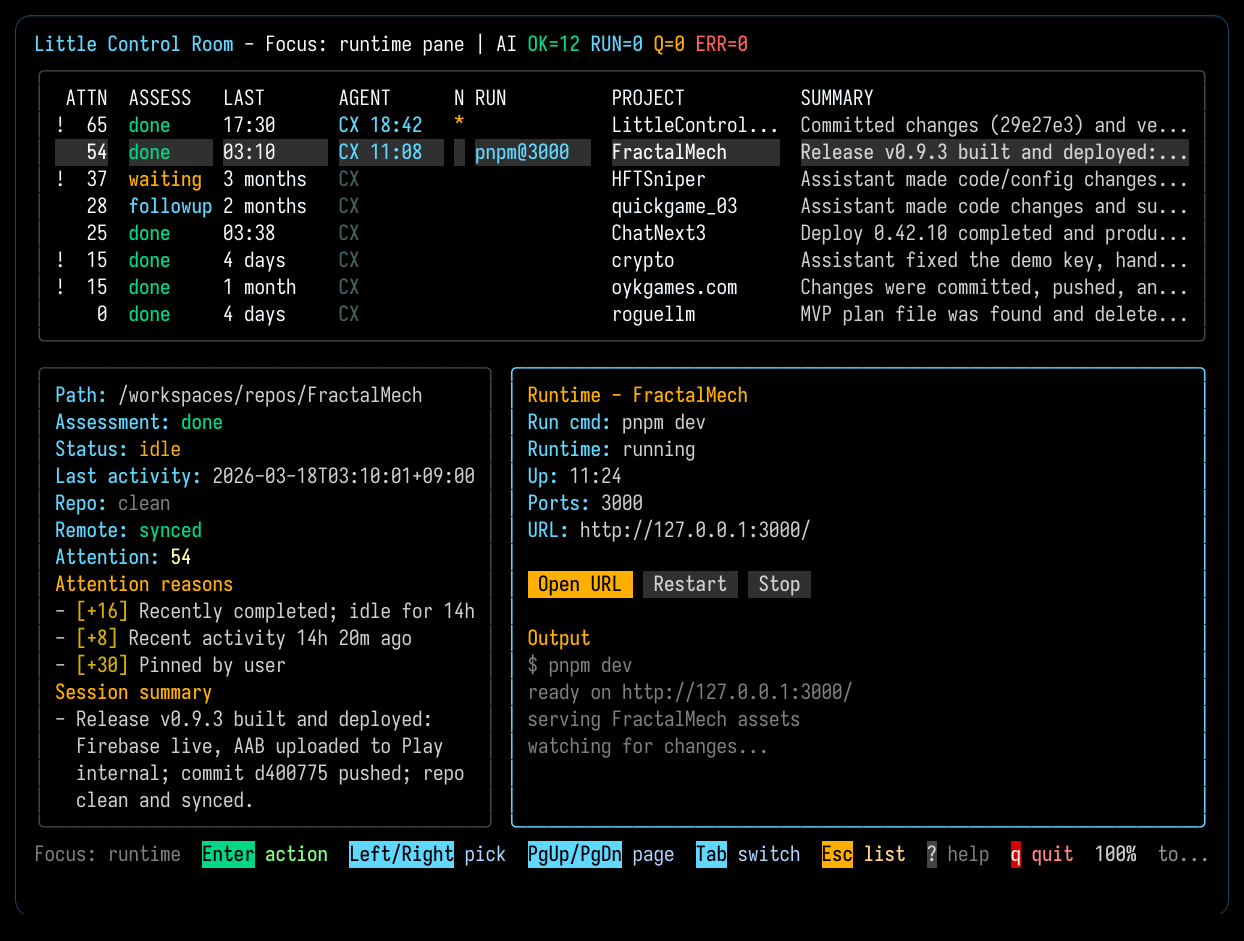
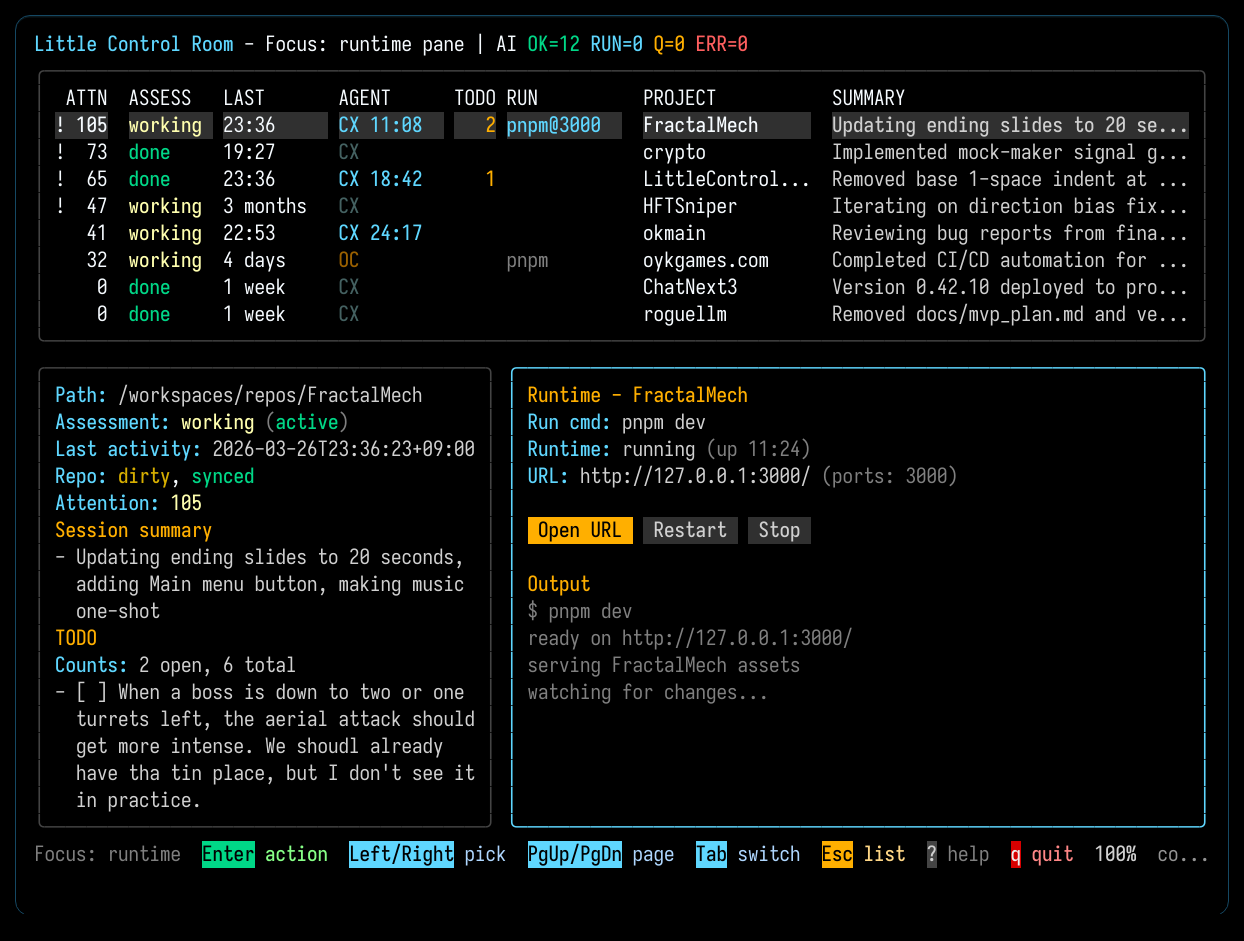
Update README and add TODO dialog screenshot

diff --git a/internal/tui/screenshots.go b/internal/tui/screenshots.go
@@ -153,6 +153,20 @@ func GenerateScreenshots(ctx context.Context, svc *service.Service, cfg config.S
 	commitModel.status = commitPreviewReadyStatus(commitModel.commitPreview.CanPush)
 	assets = append(assets, screenshotAsset("commit-preview", "Commit Preview", commitModel.View(), cfg))
 
+	todoProject := screenshotProjectWithMostTodos(ctx, svc, data, filtered, selectedProject)
+	todoModel, err := buildScreenshotDashboardModel(ctx, svc, data, filtered, todoProject.Path, cfg, now)
+	if err != nil {
+		return ScreenshotReport{}, err
+	}
+	todoModel.todoDialog = &todoDialogState{
+		ProjectPath: todoProject.Path,
+		ProjectName: noteProjectTitle(todoProject.Path, todoProject.Name),
+		Selected:    1,
+	}
+	todoModel.syncTodoDialogSelection()
+	todoModel.status = "TODO list open. Enter starts selected item; a adds, e edits, space toggles"
+	assets = append(assets, screenshotAsset("todo-dialog", "TODO Dialog", todoModel.View(), cfg))
+
 	report := ScreenshotReport{
 		Assets:                assets,
 		MatchedProjects:       screenshotProjectLabels(filtered),
@@ -245,6 +259,22 @@ func buildScreenshotDashboardModel(ctx context.Context, svc *service.Service, da
 	return m, nil
 }
 
+func screenshotProjectWithMostTodos(ctx context.Context, svc *service.Service, data screenshotDataSet, projects []model.ProjectSummary, fallback model.ProjectSummary) model.ProjectSummary {
+	best := fallback
+	bestCount := 0
+	for _, p := range projects {
+		detail, err := data.projectDetail(ctx, svc, p.Path, 1)
+		if err != nil {
+			continue
+		}
+		if len(detail.Todos) > bestCount {
+			bestCount = len(detail.Todos)
+			best = p
+		}
+	}
+	return best
+}
+
 func (d screenshotDataSet) projectDetail(ctx context.Context, svc *service.Service, path string, eventLimit int) (model.ProjectDetail, error) {
 	if d.details != nil {
 		detail, ok := d.details[path]
@@ -267,6 +297,9 @@ func sanitizeScreenshotProjectDetail(detail model.ProjectDetail) model.ProjectDe
 	for i := range detail.Artifacts {
 		detail.Artifacts[i].Path = sanitizeScreenshotPath(detail.Artifacts[i].Path)
 		detail.Artifacts[i].Note = sanitizeScreenshotText(detail.Artifacts[i].Note)
+	}
+	for i := range detail.Todos {
+		detail.Todos[i].ProjectPath = sanitizeScreenshotPath(detail.Todos[i].ProjectPath)
 	}
 	for i := range detail.RecentEvents {
 		detail.RecentEvents[i].ProjectPath = sanitizeScreenshotPath(detail.RecentEvents[i].ProjectPath)

diff --git a/internal/tui/screenshot_fixture.go b/internal/tui/screenshot_fixture.go
@@ -241,7 +241,7 @@ func screenshotDemoDataSet() screenshotDataSet {
 			LatestSessionSummary:             project.summary,
 		}
 		summaries = append(summaries, summary)
-		details[project.path] = model.ProjectDetail{
+		detail := model.ProjectDetail{
 			Summary: summary,
 			Reasons: append([]model.AttentionReason(nil), project.reasons...),
 			LatestSessionClassification: &model.SessionClassification{
@@ -254,6 +254,15 @@ func screenshotDemoDataSet() screenshotDataSet {
 				CompletedAt: project.last,
 			},
 		}
+		if project.name == screenshotDemoPrimaryProject {
+			detail.Todos = []model.TodoItem{
+				{ID: 1, ProjectPath: project.path, Text: "Add contextual screenshots to README for each workflow section", Done: true, Position: 0, CreatedAt: now.Add(-2 * time.Hour), UpdatedAt: now.Add(-30 * time.Minute), CompletedAt: now.Add(-30 * time.Minute)},
+				{ID: 2, ProjectPath: project.path, Text: "Wire /compact slash command to thread/compact/start endpoint", Done: false, Position: 1, CreatedAt: now.Add(-90 * time.Minute), UpdatedAt: now.Add(-90 * time.Minute)},
+				{ID: 3, ProjectPath: project.path, Text: "Implement /review command for embedded code review workflow", Done: false, Position: 2, CreatedAt: now.Add(-80 * time.Minute), UpdatedAt: now.Add(-80 * time.Minute)},
+				{ID: 4, ProjectPath: project.path, Text: "Add /fork to create a new thread from the current conversation point", Done: false, Position: 3, CreatedAt: now.Add(-70 * time.Minute), UpdatedAt: now.Add(-70 * time.Minute)},
+			}
+		}
+		details[project.path] = detail
 	}
 
 	return screenshotDataSet{

diff --git a/README.md b/README.md
@@ -6,27 +6,11 @@ LCR is meant to be a single window where you can coordinate most of your develop
 
 LCR shows you in real time the progress of each Codex, OpenCode, and Claude Code session, and lets you open, resume, or switch sessions, view diffs, generate commits with automatic messages, and manage per-project runtimes, all without leaving the dashboard.
 
-## Screenshots
-
-Click any screenshot to open the full-size PNG on GitHub.
-
 <p align="center">
   <a href="docs/screenshots/main-panel.png">
     <img src="docs/screenshots/main-panel.png" alt="Little Control Room main dashboard overview with live agent activity in the list" width="850">
   </a>
 </p>
-
-| Dashboard | Runtime Pane |
-| --- | --- |
-| [![Little Control Room dashboard list view](docs/screenshots/main-panel.png)](docs/screenshots/main-panel.png) | [![Little Control Room runtime pane focused on a running FractalMech session](docs/screenshots/main-panel-live-runtime.png)](docs/screenshots/main-panel-live-runtime.png) |
-
-| Embedded Session | Diff View |
-| --- | --- |
-| [![Little Control Room embedded Codex conversation](docs/screenshots/codex-embedded.png)](docs/screenshots/codex-embedded.png) | [![Little Control Room diff window](docs/screenshots/diff-view.png)](docs/screenshots/diff-view.png) |
-
-| Commit Preview | Image Diff |
-| --- | --- |
-| [![Little Control Room commit preview dialog](docs/screenshots/commit-preview.png)](docs/screenshots/commit-preview.png) | [![Little Control Room diff window showing before and after image previews](docs/screenshots/diff-view-image.png)](docs/screenshots/diff-view-image.png) |
 
 ## What It Does
 
@@ -34,7 +18,7 @@ Click any screenshot to open the full-size PNG on GitHub.
 - Shows which projects are active, idle, or worth revisiting
 - Lets you open, resume, or switch embedded Codex or OpenCode sessions directly from the dashboard
 - Detects Claude Code sessions running in a separate terminal and shows their transcript read-only
-- Keeps common actions close at hand: refresh, pin, snooze, multiline project notes with list badges, managed per-project run commands with runtime/port badges, diff, commit, and push
+- Keeps common actions close at hand: refresh, pin, snooze, project notes, per-project TODO lists, managed per-project run commands with runtime/port badges, diff, commit, and push
 
 ## What it doesn't do (yet)
 
@@ -125,12 +109,26 @@ Inside the embedded Codex or OpenCode pane:
 
 Most day-to-day use falls into a few buckets:
 
-- `🚀 Run and monitor`: Use `/run` or `/start` to launch a saved runtime, `/restart` to bounce it, `/run-edit` to change the command, and `/stop` to shut it down. Press `Tab` or `/runtime` when you want to work directly in the runtime pane.
-- `🤖 Resume agent work`: Use `/codex` or `/opencode` to pick up where you left off, and `/codex-new` or `/opencode-new` when you want a fresh session. Inside the embedded pane, `/resume`, `/session`, and `/reconnect` handle switching sessions or reattaching the helper. Projects with Claude Code activity are detected automatically and shown with a `CC` tag; press `Enter` to view the transcript read-only.
-- `🧹 Keep the list clean`: Use `f` or `/filter <text>` to narrow the project list, `/pin` and `/snooze` to control attention, `/ignore` and `/ignored` to hide or restore exact project names, and `/forget` to remove a missing folder.
-- `📋 TODO-driven sessions`: Press `t` or use `/todo` to open a per-project TODO list. Add items you want an agent to work on, then press `Enter` on any item to start a fresh embedded session with that task as the prompt. The dialog shows the model that will be used and lets you pick the provider (Codex or OpenCode).
-- `📝 Review and organize`: Use `/note` or `n` for project notes, `/diff` to inspect git changes, `/commit` and `/push` when you are ready to ship, and `/open` to jump to the project folder.
-- `⚙ Adjust setup`: Use `/settings` for API keys, paths, and defaults, and `/new-project` when you want to add something new to the dashboard.
+- **Run and monitor** — Use `/run` or `/start` to launch a saved runtime, `/restart` to bounce it, `/run-edit` to change the command, and `/stop` to shut it down. Press `Tab` or `/runtime` when you want to work directly in the runtime pane.
+
+  [![Runtime pane focused on a running session](docs/screenshots/main-panel-live-runtime.png)](docs/screenshots/main-panel-live-runtime.png)
+
+- **Resume agent work** — Use `/codex` or `/opencode` to pick up where you left off, and `/codex-new` or `/opencode-new` when you want a fresh session. Inside the embedded pane, `/resume`, `/session`, and `/reconnect` handle switching sessions or reattaching the helper. Projects with Claude Code activity are detected automatically and shown with a `CC` tag; press `Enter` to view the transcript read-only.
+
+  [![Embedded Codex conversation](docs/screenshots/codex-embedded.png)](docs/screenshots/codex-embedded.png)
+
+- **TODO-driven sessions** — Press `t` or use `/todo` to open a per-project TODO list. Add items you want an agent to work on, then press `Enter` on any item to start a fresh embedded session with that task as the prompt. The dialog shows the model that will be used and lets you pick the provider (Codex or OpenCode).
+
+  [![TODO dialog with per-project task list](docs/screenshots/todo-dialog.png)](docs/screenshots/todo-dialog.png)
+
+- **Review and organize** — Use `/note` for project notes, `/diff` to inspect git changes, `/commit` and `/push` when you are ready to ship, and `/open` to jump to the project folder.
+
+  | Diff View | Commit Preview | Image Diff |
+  | --- | --- | --- |
+  | [![Diff window](docs/screenshots/diff-view.png)](docs/screenshots/diff-view.png) | [![Commit preview dialog](docs/screenshots/commit-preview.png)](docs/screenshots/commit-preview.png) | [![Image diff with before/after previews](docs/screenshots/diff-view-image.png)](docs/screenshots/diff-view-image.png) |
+
+- **Keep the list clean** — Use `f` or `/filter <text>` to narrow the project list, `/pin` and `/snooze` to control attention, `/ignore` and `/ignored` to hide or restore exact project names, and `/forget` to remove a missing folder.
+- **Adjust setup** — Use `/settings` for API keys, paths, and defaults, and `/new-project` when you want to add something new to the dashboard.
 
 For the full command list and detailed behavior, see [`docs/reference.md`](docs/reference.md).
 
